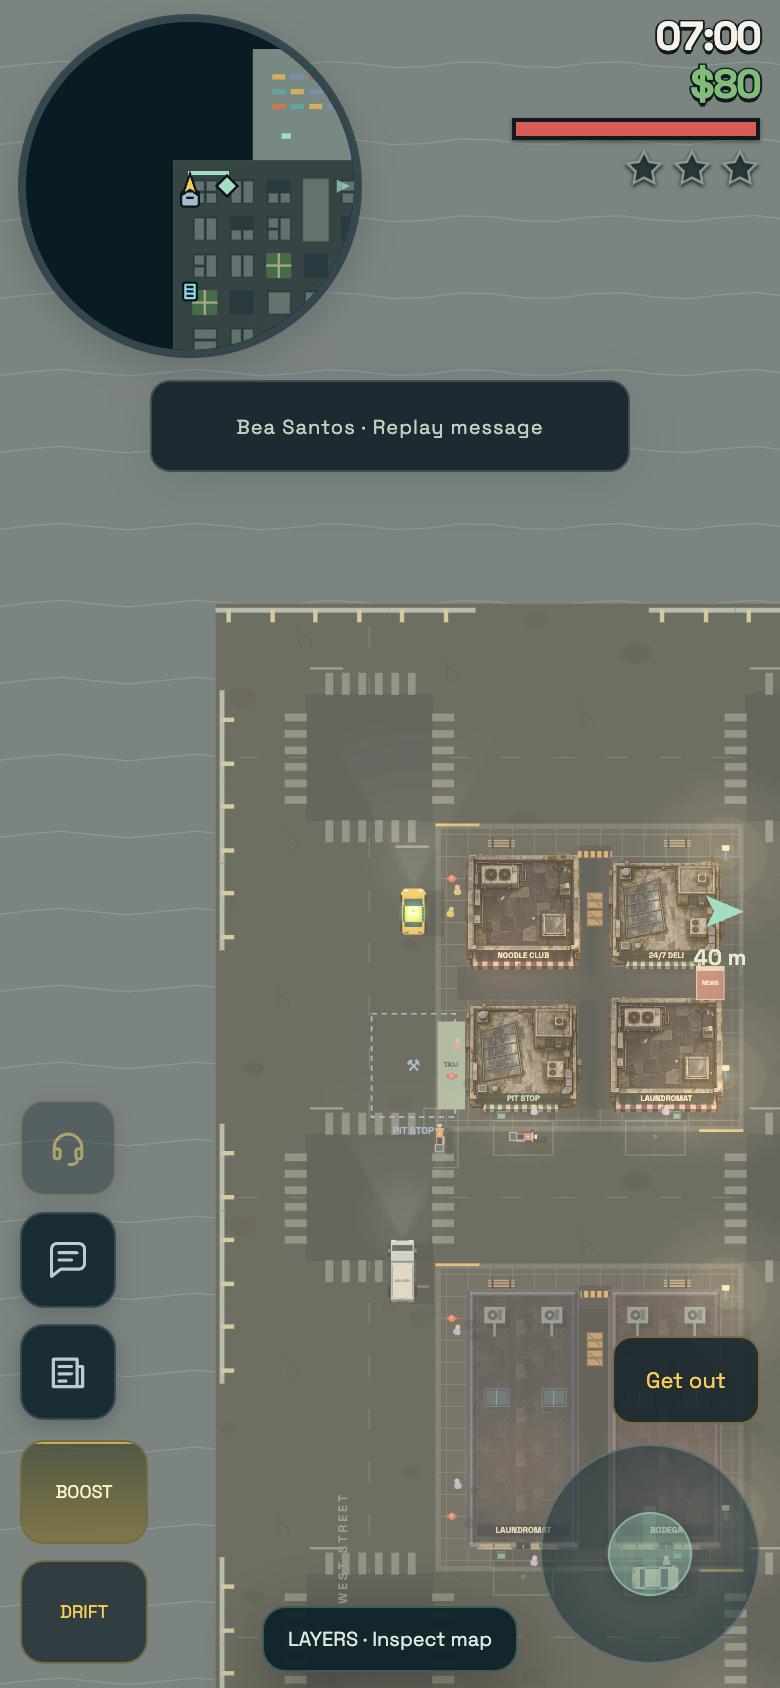
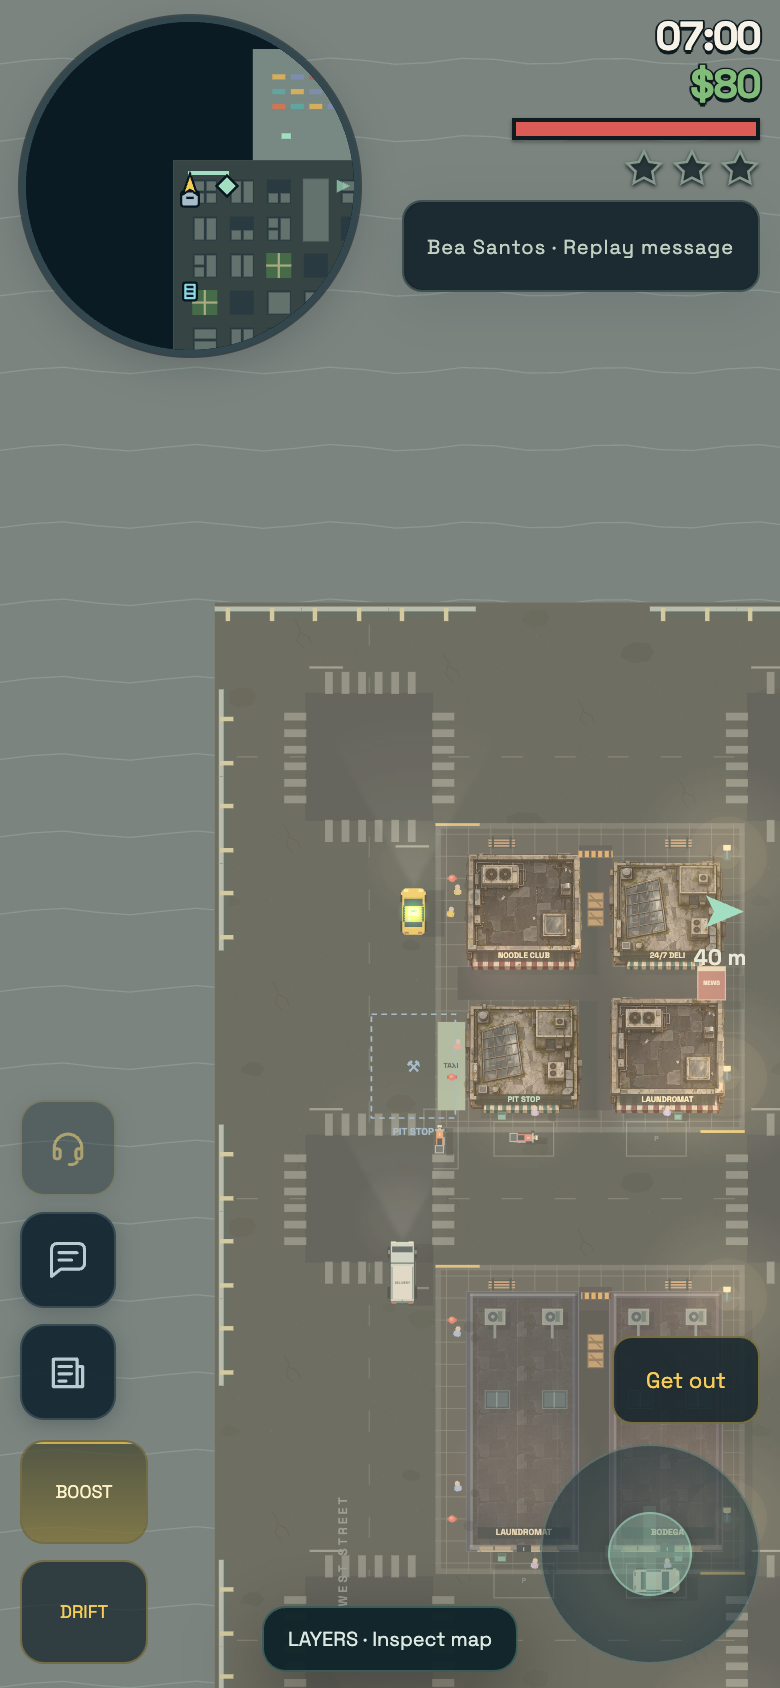
Expand portrait dialogue and tuck replay under status

diff --git a/src/style.css b/src/style.css
@@ -168,6 +168,15 @@ body:has(.story:not([hidden]):not(.collapsed)) .player-hud{visibility:hidden}
   .story.collapsed{top:calc(var(--top-height) + var(--radar-size) + 20px);right:auto;width:min(240px,calc(100vw - var(--edge-left) - var(--edge-right)));padding:0 10px}
   body:has(.story.collapsed:not([hidden])) .toast{top:calc(var(--top-height) + var(--radar-size) + 76px)}
 }
+/* Portrait touch: conversations span the full width, covering the radar so the
+   panel stays short and leaves the street open. The collapsed replay tucks under
+   the heat meter with tight margins instead of taking a centred band. */
+@media(max-width:700px) and (min-height:501px), (pointer:coarse) and (max-width:1200px) and (min-height:501px){
+  .story{left:var(--edge-left);right:var(--edge-right);width:auto;max-width:none}
+  .story.collapsed{top:calc(var(--top-height) + 100px);left:auto;right:var(--edge-right);width:max-content;max-width:calc(100vw - var(--edge-left) - var(--edge-right));padding:0;transform:none}
+  .story.collapsed .story-read{width:100%;margin:0;padding:8px 12px}
+  body:has(.story.collapsed:not([hidden])) .toast{top:calc(var(--top-height) + 8px + var(--radar-size) + 24px)}
+}
 @media(max-height:500px) and (max-width:1000px), (max-height:500px) and (pointer:coarse) and (max-width:1200px){
   /* Keep the top-centre shortcut row clear while covering the status corner. */
   .story{width:calc(50vw - var(--edge-right) - 110px)}
